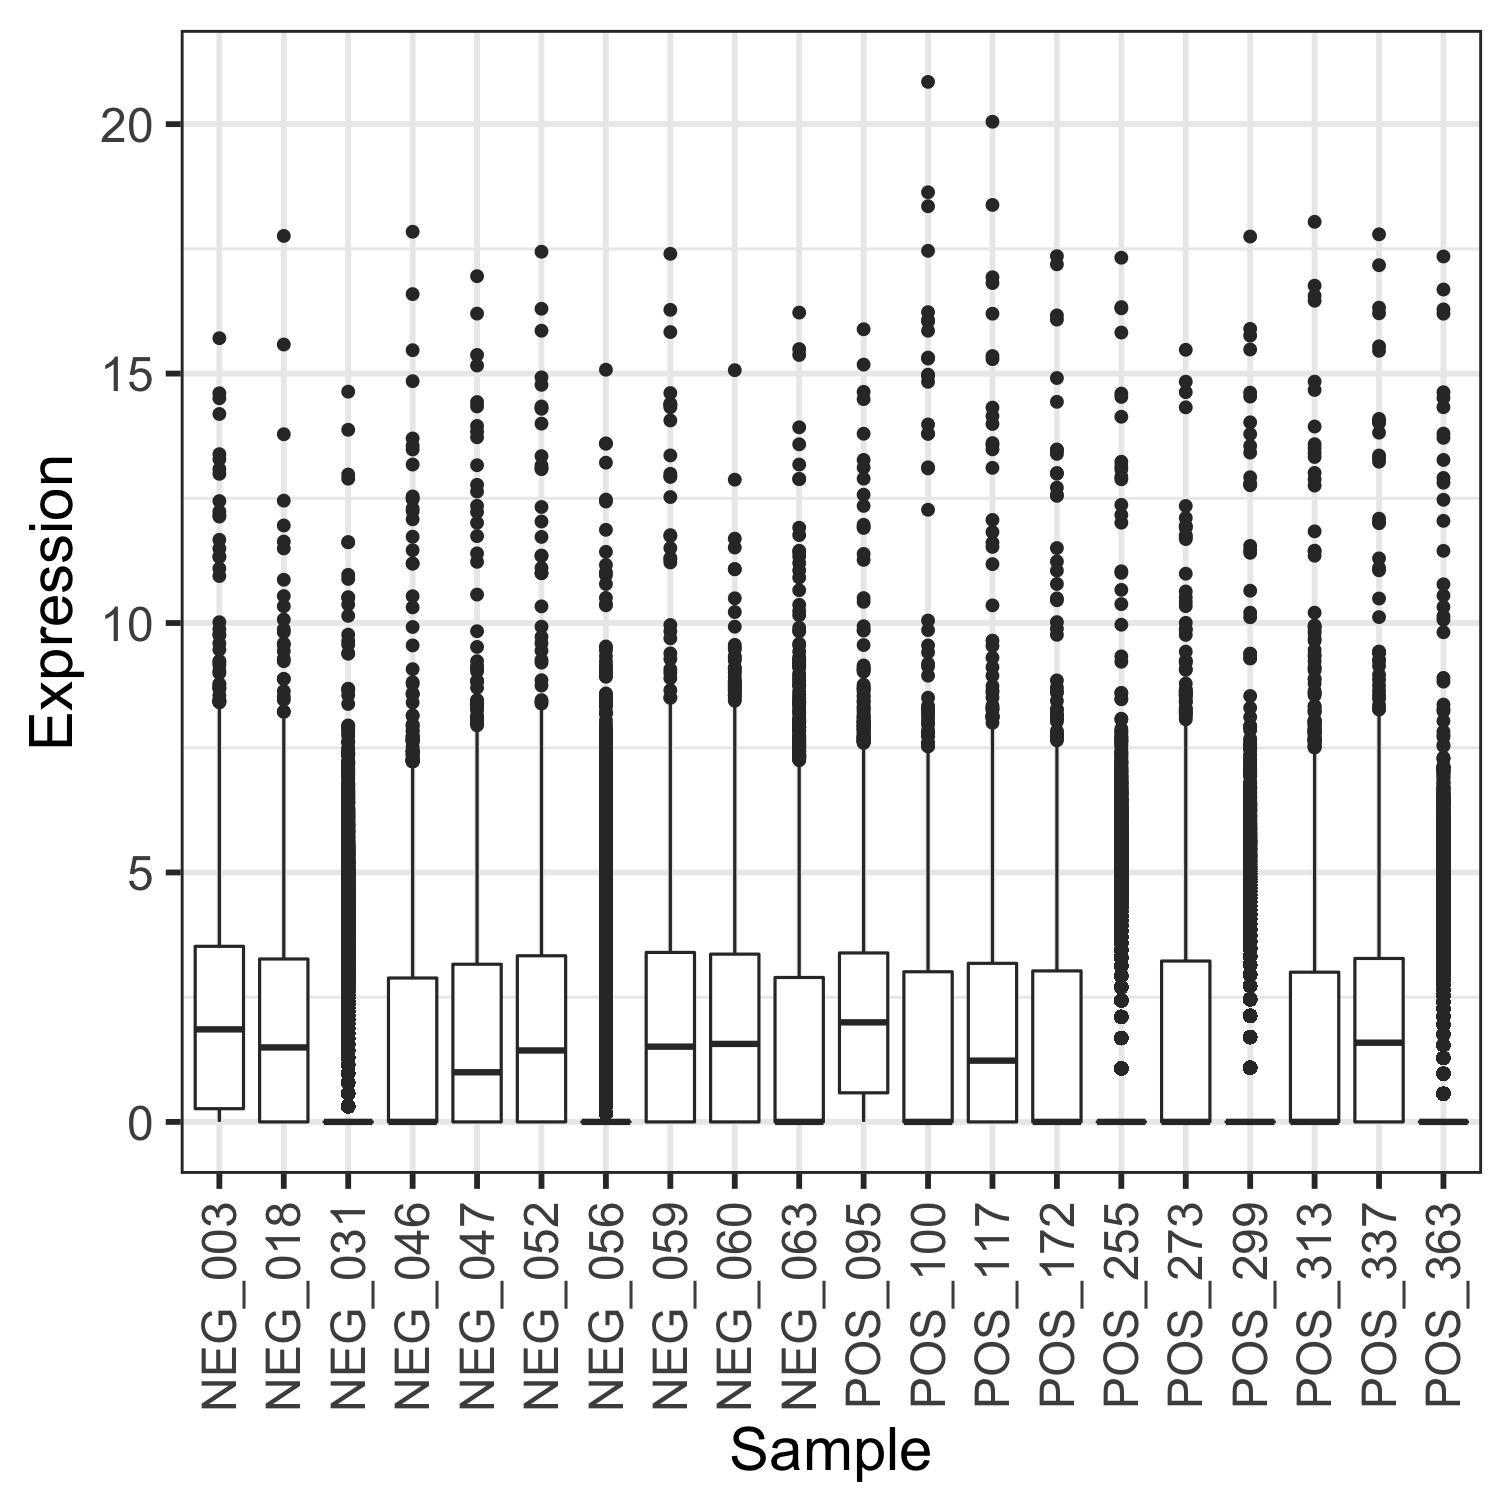
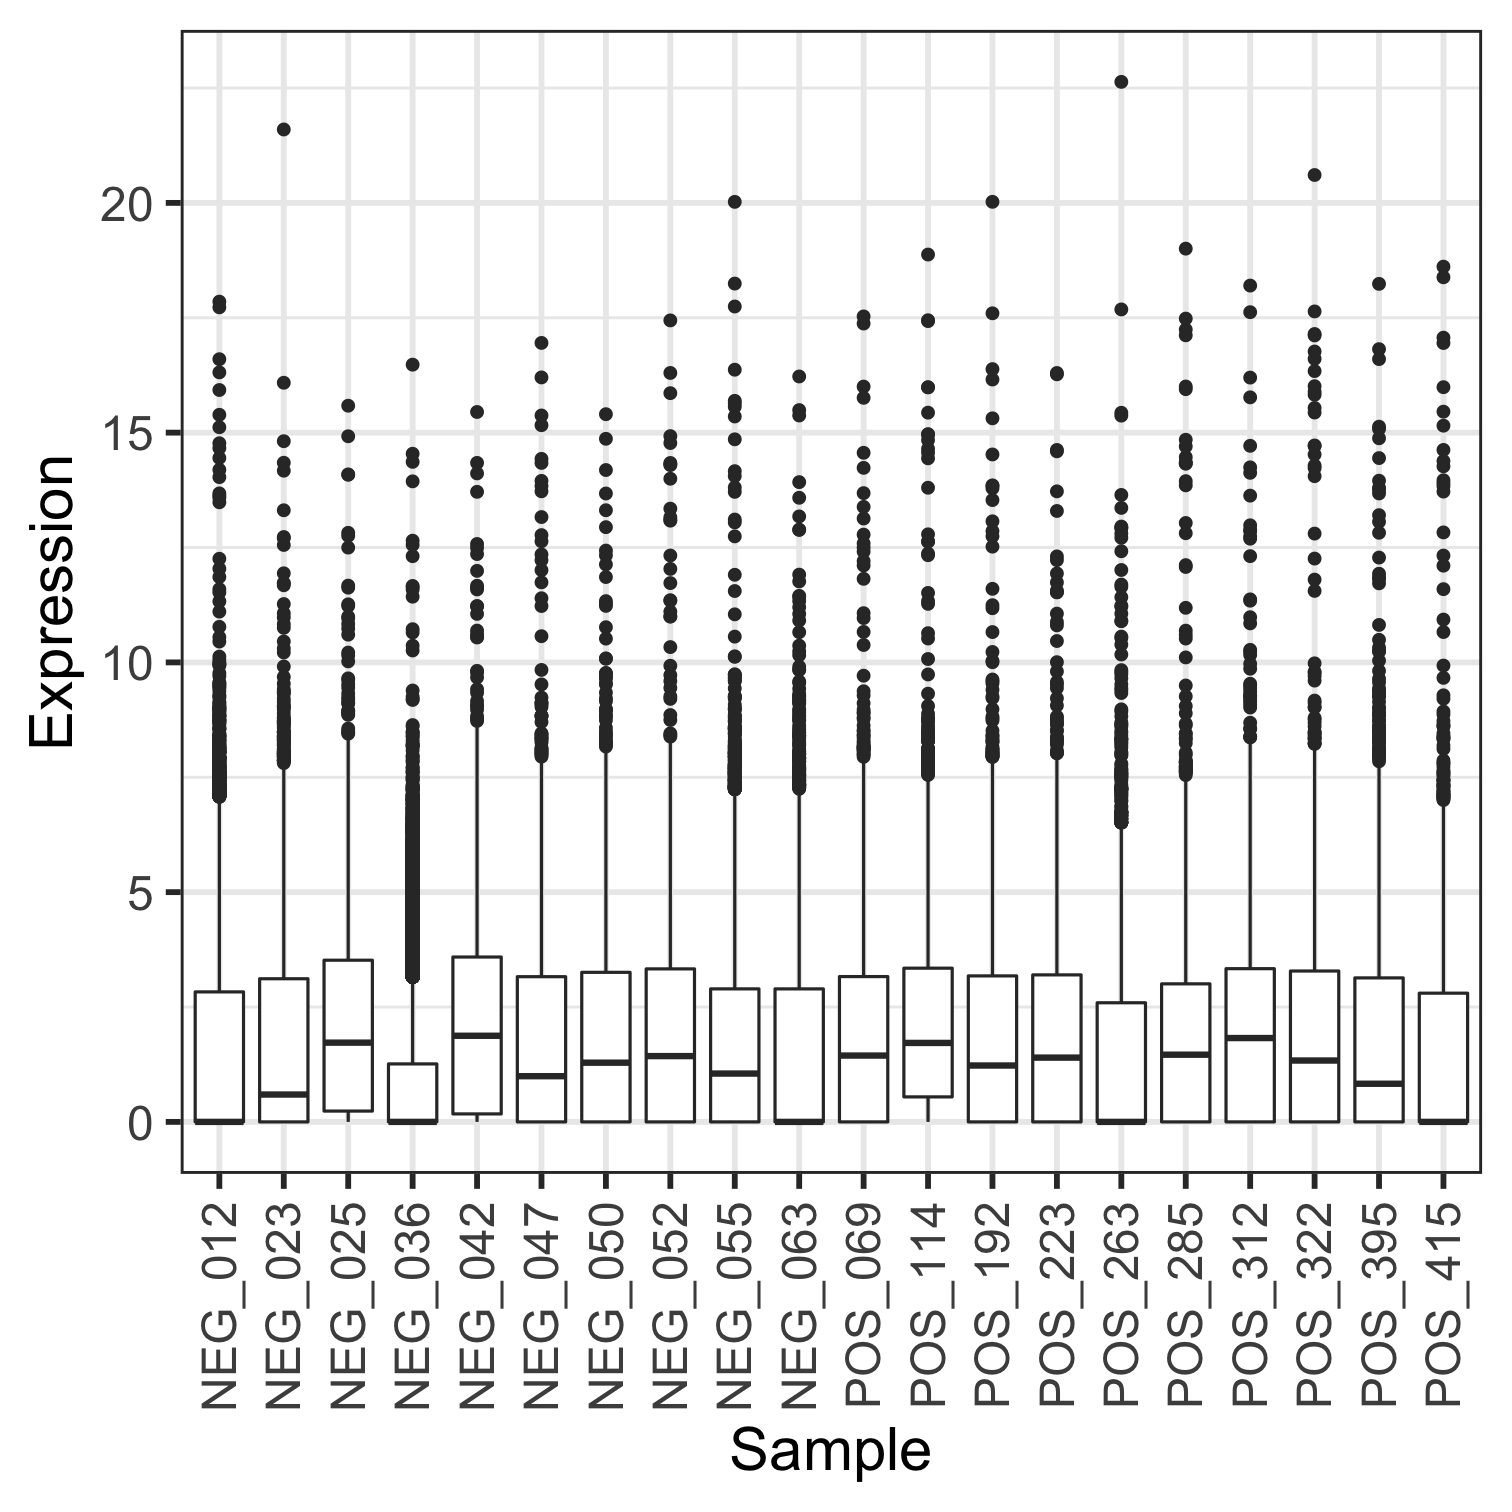
Modified

diff --git a/Presentations/Team11_presentation.html b/Presentations/Team11_presentation.html
@@ -210,6 +210,7 @@ summary(pdata_mod)
 ---
 
 # Data Imputation
+&lt;small&gt;
  - MissForest is a random forest imputation algorithm for missing data, implemented in `R` in the `missForest()` package.
  
 &lt;div class="figure" style="text-align: center"&gt;
@@ -226,6 +227,7 @@ summary(pdata_mod)
   - Imputation time increases with the number of observations, predictors and missing values
   - Missing data is imputed in each run, which could be problematic in some production environments
 
+&lt;small&gt;
 ---
 
 # Data Imputation- Results
@@ -238,6 +240,8 @@ summary(pdata_mod)
 
 
 
+
+
 ```r
 #Checking for performance 
 pdata.imp.1$OOBerror
@@ -245,7 +249,7 @@ pdata.imp.1$OOBerror
 
 ```
 ##      NRMSE        PFC 
-## 0.00000000 0.06264501
+## 0.00000000 0.08758701
 ```
 
 ```r
@@ -266,7 +270,7 @@ table(pdata_imputed$Gender)
 ```
 ## 
 ##   F   M 
-## 246 221
+## 252 215
 ```
 
 ---
@@ -280,11 +284,11 @@ table(pdata_imputed$Gender)
 &lt;small&gt;
 
 .pull-left[
-&lt;img src="GeneWiseModel.png" width="70%" style="display: block; margin: auto 0 auto auto;" /&gt;
+&lt;img src="GeneWiseModel.png" width="70%" /&gt;
 ]
 
 .pull-right[
-&lt;img src="BatchFreeDist.png" width="65%" style="display: block; margin: auto auto auto 0;" /&gt;
+&lt;img src="BatchFreeDist.png" width="65%" /&gt;
 ]
 
 
@@ -307,29 +311,24 @@ dim(corrected_data1)
 ```
 
 ---
-# Assessment of normalized DGEList
+# Assessing overall distributions
+
+&lt;small&gt;
 
 
-.pull-left[
--Removing lowly expressed genes
+- Removing lowly expressed genes
 
 
 ```r
 keep_edge &lt;- rowSums(cpm(dge)&gt;10) &gt;= 2
 ```
 
+- Data Normalization followed by computing CPM and log2CPM values
 
 
 
 ```r
-dim(dge)
-```
-
-```
-## [1] 35784   467
-```
-
-```r
+# Number of genes present after filtering
 dim(dge_mod)
 ```
 
@@ -340,24 +339,40 @@ dim(dge_mod)
 
 
 
+.pull-left[
+&lt;img src="Team11_presentation_files/figure-html/unnamed-chunk-24-1.png" width="504" /&gt;
 ]
 
 .pull-right[
-
-```r
-#Box plot
-longExpr %&gt;%
-  ggplot(aes(Sample, Expression)) + 
-    geom_boxplot() + 
-    theme(axis.text.x = element_text(angle = 90, vjust = 0.5, hjust=1))
-```
-
-&lt;img src="Team11_presentation_files/figure-html/unnamed-chunk-23-1.png" width="80%" style="display: block; margin: auto 0 auto auto;" /&gt;
-
-&lt;img src="Team11_presentation_files/figure-html/unnamed-chunk-24-1.png" width="80%" style="display: block; margin: auto 0 auto auto;" /&gt;
+&lt;img src="Team11_presentation_files/figure-html/unnamed-chunk-25-1.png" width="504" /&gt;
 ]
+
+&lt;small&gt;
+
 ---
 # Differential expression analyses using EdgeR
+
+- Interaction terms: Age:Sars_test; Age:Sex; Sars_test:Sex
+
+
+```r
+#Setting up model matrix
+designMatrix1 = model.matrix(~Sars_test*Gender, data = pdata_imputed)
+designMatrix2 = model.matrix(~Sars_test*Age_category, data = pdata_imputed)
+designMatrix3 = model.matrix(~Age_category*Gender, data = pdata_imputed)[, -6]
+```
+
+- Estimating dispersion and fitting to a generalized linear model
+  - Example: Interaction between Sars_test and Gender
+
+
+```r
+dge_disp1 &lt;- estimateDisp(dge_norm, designMatrix1, robust = TRUE) 
+lfit1 &lt;- glmFit(dge_disp1, designMatrix1)
+lrt1 &lt;- glmLRT(lfit1)
+```
+
+
 
 ---
 

diff --git a/Presentations/test.md b/Presentations/test.md
@@ -1,0 +1,109 @@
+Host transcriptional response to SARS-Cov2 by Sex and Age
+========================================================
+author: Ekpereka Amutaigwe, Credo Casmil, Dollina Dodani, Aditi Nallan
+date: 30 March 2022
+autosize: true
+
+Background
+========================================================
+
+- SARS-CoV-2 has shown a wide range of clinical manifestations among different population groups.
+- Clinically, COVID-19 cases tend to be more severe for older adults and males
+- [Lieberman et al. (Plos Biology 2020)](https://journals.plos.org/plosbiology/article?id=10.1371/journal.pbio.3000849) examined host response gene expression across infection status and viral load from 430 individuals with SARS-CoV-2 and 54 negative controls.
+
+![Figure from Lieberman et al. (Plos Biology 2020) paper](Heatmap_paper.png)
+
+Project Aim
+========================================================
+
+- Examine the statistical difference in gene expression profiles among SARS-CoV-2 infected patients by extending the original research to explore the interactive effects of age and sex.
+
+- Leverage these differences in a Machine Learning model to predict infection state.
+
+
+Dataset
+========================================================
+
+
+
+- Obtained from Lieberman et al. (Plos Biology 2020) paper as:
+  - **Main data file**: expression values - one per gene, per sample
+  - **Metadata file**: several covariates/experimental design variables for each sample. 
+
+
+```r
+# Expression matrix
+dim(count_mat)
+```
+
+```
+[1] 35784   484
+```
+
+```r
+# Metadata
+dim(m)
+```
+
+```
+[1] 484   6
+```
+
+
+Metadata
+========================================================
+
+
+```r
+options(height = 100)
+summary(m)
+```
+
+```
+    Sample               Age        Gender      Viral_load    Sars_test
+ Length:484         Min.   : 2.0   F   :231   Min.   : 0.00   neg: 54  
+ Class :character   1st Qu.:39.5   M   :200   1st Qu.:17.73   pos:430  
+ Mode  :character   Median :54.0   NA's: 53   Median :20.44            
+                    Mean   :54.6              Mean   :18.76            
+                    3rd Qu.:70.5              3rd Qu.:23.54            
+                    Max.   :90.0              Max.   :30.54            
+                    NA's   :17                NA's   :17               
+     Batch    
+ Q      : 57  
+ P      : 54  
+ L      : 43  
+ O      : 28  
+ J      : 26  
+ F      : 24  
+ (Other):252  
+```
+
+
+Visualization of missing data
+========================================================
+
+.pull-left[
+![plot of chunk unnamed-chunk-4](test-figure/unnamed-chunk-4-1.png)
+
+]
+
+.pull-right[
+
+```r
+#Check for percentage of missing data
+pct_miss(m)
+```
+
+```
+[1] 2.995868
+```
+
+```r
+#Check for percent rows that have missing data
+pct_miss_case(m)
+```
+
+```
+[1] 10.95041
+```
+]
